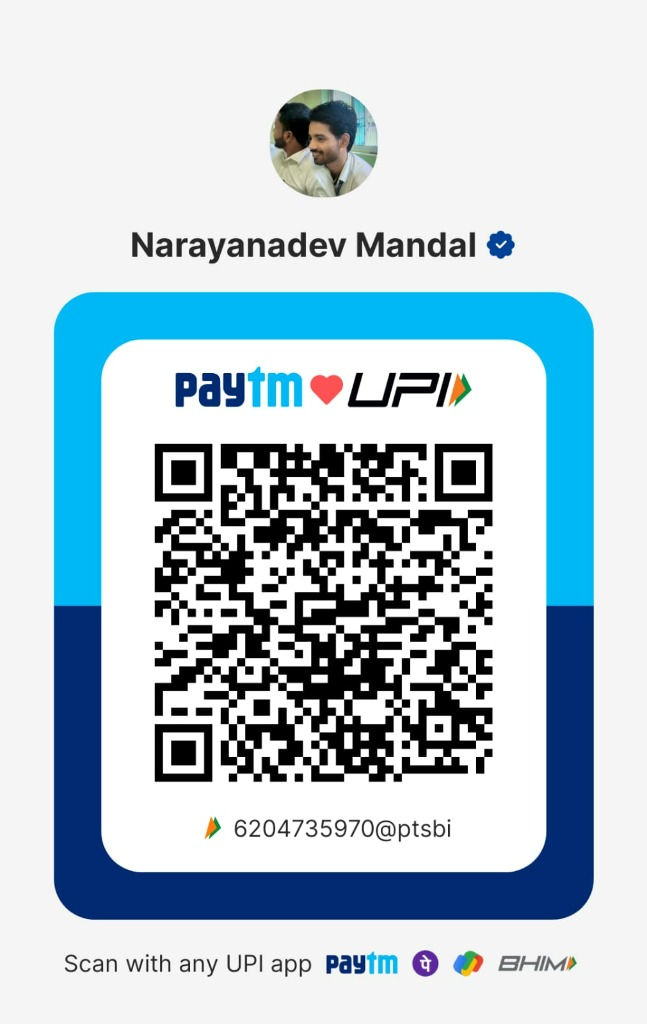
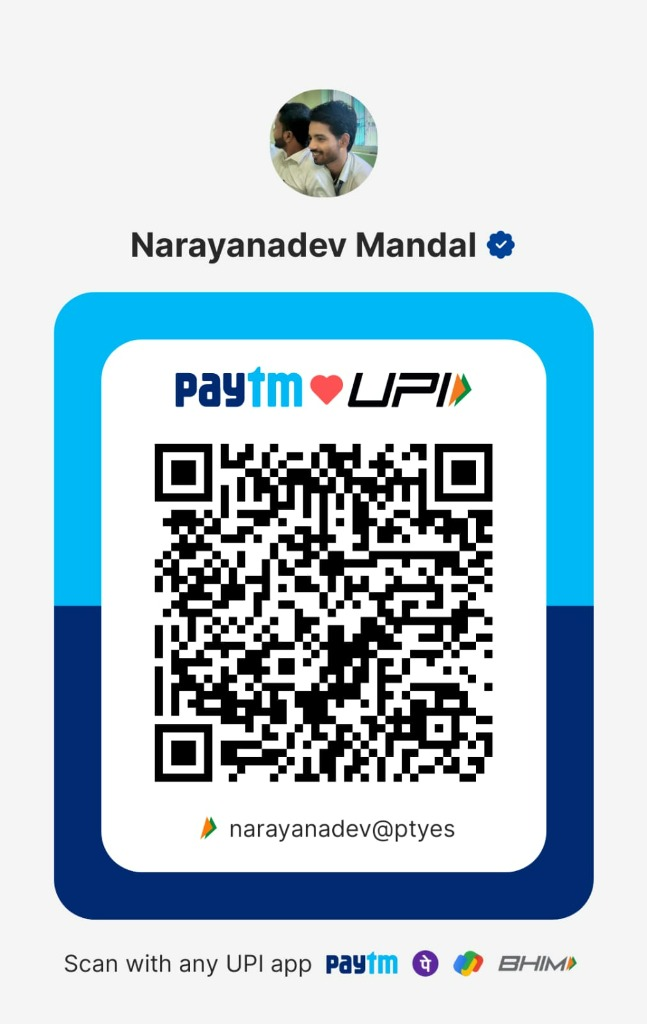
chore(donate): update UPI QR code image and ID to narayanadev@ptyes

Changed region(s): [[0.2164, 0.4062, 0.7728, 0.8438]]

diff --git a/web/index.html b/web/index.html
@@ -29,12 +29,12 @@
   <link rel="apple-touch-icon" href="assets/logo.svg">
 
   <!-- Stylesheets -->
-  <link rel="stylesheet" href="css/00-tokens.css?v=3.7.0">
-  <link rel="stylesheet" href="css/01-layout.css?v=3.7.0">
-  <link rel="stylesheet" href="css/02-components.css?v=3.7.0">
-  <link rel="stylesheet" href="css/03-motion.css?v=3.7.0">
-  <link rel="stylesheet" href="css/04-canvas.css?v=3.7.0">
-  <link rel="stylesheet" href="css/05-warm-theme.css?v=3.7.0">
+  <link rel="stylesheet" href="css/00-tokens.css?v=3.4.0">
+  <link rel="stylesheet" href="css/01-layout.css?v=3.4.0">
+  <link rel="stylesheet" href="css/02-components.css?v=3.4.0">
+  <link rel="stylesheet" href="css/03-motion.css?v=3.4.0">
+  <link rel="stylesheet" href="css/04-canvas.css?v=3.4.0">
+  <link rel="stylesheet" href="css/05-warm-theme.css?v=3.4.0">
 
   <!-- Schema.org JSON-LD Structured Data -->
   <script type="application/ld+json">
@@ -55,7 +55,7 @@
       "name": "Narayan Dev"
     },
     "downloadUrl": "https://github.com/Narayan6204/Epic-pen-clone-windows-11-optimised/releases/latest",
-    "softwareVersion": "2.4.0",
+    "softwareVersion": "2.0.0",
     "license": "https://opensource.org/licenses/MIT"
   }
   </script>
@@ -120,7 +120,7 @@
           <div class="m3-flex-col m3-align-center" style="text-align: center; max-width: 900px; margin: 0 auto 36px;">
             <div class="m3-badge-pill" style="margin-bottom: 16px;">
               <span class="material-symbols-rounded" style="font-size: 16px;">bolt</span>
-              <span>Windows 11 Direct3D 11 Accelerated • <span data-gh-version>v2.4.0</span></span>
+              <span>Direct3D 11 GPU Pipeline • 60 FPS Fluid Animations • <span data-gh-version>v2.0.0</span></span>
             </div>
 
             <h1 id="hero-title" class="m3-display-medium" style="margin-bottom: 16px; font-weight: 800;">
@@ -128,13 +128,13 @@
             </h1>
 
             <p class="m3-body-large" style="max-width: 720px; margin-bottom: 28px;">
-              Hardware-accelerated ink, Smart Vector Objects with OBB rotation, Circle-to-Select lasso mechanics, and near 0% idle CPU usage. Completely free and open-source.
+              Hardware-accelerated Direct3D 11 inking, 60 FPS fluid animation engine, Smart Vector Objects with OBB rotation, persistent settings storage, and near 0% idle CPU usage. Completely free and open-source.
             </p>
 
             <div class="m3-flex-row m3-gap-md" style="flex-wrap: wrap; justify-content: center;">
               <a href="https://github.com/Narayan6204/Epic-pen-clone-windows-11-optimised/releases/latest" data-gh-download-url class="m3-btn m3-btn-filled" style="height: 48px; padding: 0 32px; font-size: 1rem;">
                 <span class="material-symbols-rounded">download</span>
-                <span>Download Pen 11 Free (<span data-gh-size>18.5 MB</span>)</span>
+                <span>Download Pen 11 Free (<span data-gh-size>38.6 MB</span>)</span>
               </a>
               <a href="#features" class="m3-btn m3-btn-outlined" style="height: 48px; padding: 0 24px; font-size: 1rem;">
                 <span class="material-symbols-rounded">explore</span>
@@ -205,22 +205,22 @@
                   <div class="shape-flyout-title">Shapes</div>
                   <div class="shape-flyout-grid">
                     <button class="toolbar-tool-btn" data-shape="line" title="Line (Shift for 45°)" aria-label="Line shape">
-                      <span>📏</span>
+                      <svg width="22" height="22" viewBox="0 0 24 24" fill="none" stroke="#333333" stroke-width="2.2" stroke-linecap="round" stroke-linejoin="round"><line x1="5" y1="19" x2="19" y2="5"></line></svg>
                     </button>
                     <button class="toolbar-tool-btn" data-shape="arrow" title="Arrow (Shift for 45°)" aria-label="Arrow shape">
-                      <span>↗</span>
+                      <svg width="22" height="22" viewBox="0 0 24 24" fill="none" stroke="#333333" stroke-width="2.2" stroke-linecap="round" stroke-linejoin="round"><line x1="5" y1="19" x2="19" y2="5"></line><polyline points="10 5 19 5 19 14"></polyline></svg>
                     </button>
                     <button class="toolbar-tool-btn" data-shape="rectangle" title="Rectangle (Shift for 1:1 Square)" aria-label="Rectangle shape">
-                      <span>⬛</span>
+                      <svg width="22" height="22" viewBox="0 0 24 24" fill="none" stroke="#333333" stroke-width="2.2" stroke-linecap="round" stroke-linejoin="round"><rect x="4" y="6" width="16" height="12" rx="0"></rect></svg>
                     </button>
                     <button class="toolbar-tool-btn" data-shape="rounded_rectangle" title="Rounded Rectangle (Shift for 1:1 Square)" aria-label="Rounded rectangle shape">
-                      <span>🟩</span>
+                      <svg width="22" height="22" viewBox="0 0 24 24" fill="none" stroke="#333333" stroke-width="2.2" stroke-linecap="round" stroke-linejoin="round"><rect x="4" y="6" width="16" height="12" rx="3.5"></rect></svg>
                     </button>
                     <button class="toolbar-tool-btn" data-shape="circle" title="Circle (Shift for 1:1 Circle)" aria-label="Circle shape">
-                      <span>🟡</span>
+                      <svg width="22" height="22" viewBox="0 0 24 24" fill="none" stroke="#333333" stroke-width="2.2" stroke-linecap="round" stroke-linejoin="round"><circle cx="12" cy="12" r="8"></circle></svg>
                     </button>
                     <button class="toolbar-tool-btn" data-shape="triangle" title="Triangle (Shift for 90° Right Angle)" aria-label="Triangle shape">
-                      <span>🔺</span>
+                      <svg width="22" height="22" viewBox="0 0 24 24" fill="none" stroke="#333333" stroke-width="2.2" stroke-linecap="round" stroke-linejoin="round"><path d="M12 4 L21 19 L3 19 Z"></path></svg>
                     </button>
                   </div>
                 </div>
@@ -346,22 +346,22 @@
           <!-- Bento Grid Container -->
           <div class="bento-grid">
             
-            <!-- Bento Item 1: Direct3D 11 Hardware Acceleration -->
+            <!-- Bento Item 1: 60 FPS Fluid Animation Suite -->
             <article class="bento-card bento-col-8">
               <div class="bento-card-header">
                 <div class="bento-card-icon">
-                  <span class="material-symbols-rounded">speed</span>
+                  <span class="material-symbols-rounded">animation</span>
                 </div>
-                <span class="m3-badge-pill">Direct3D 11</span>
+                <span class="m3-badge-pill">60 FPS Fluid Suite</span>
               </div>
-              <h3 class="bento-card-title">Hardware-Accelerated Inking</h3>
+              <h3 class="bento-card-title">60 FPS Fluid Animation Engine</h3>
               <p class="bento-card-description">
-                Direct3D 11 native swapchain pipeline eliminates raster lag and cursor ghosting, delivering butter-smooth 60/120Hz high-DPI rendering without tearing.
+                Direct3D 11 native swapchain combined with <code>QPropertyAnimation</code> (<code>InOutCubic</code> 240ms) delivers seamless toolbar collapse/expand morphing and non-blocking <code>InOutSine</code> opacity fades with zero visual stutter or layout fighting.
               </p>
               <div style="background: var(--md-sys-color-surface); border-radius: var(--md-sys-shape-corner-medium); padding: 16px; border: 1px solid var(--md-sys-color-outline-variant);">
                 <div class="m3-flex-row m3-justify-between m3-align-center" style="margin-bottom: 8px;">
-                  <span class="m3-label-medium">Frame Render Time</span>
-                  <span class="m3-label-small" style="color: #22c55e; font-weight: 700;">&lt; 1.2ms (Zero Jitter)</span>
+                  <span class="m3-label-medium">Frame Dispatch & Jitter</span>
+                  <span class="m3-label-small" style="color: #22c55e; font-weight: 700;">&lt; 1.2ms (Zero Tearing)</span>
                 </div>
                 <div style="width: 100%; height: 8px; background-color: var(--md-sys-color-surface-container-highest); border-radius: 99px; overflow: hidden;">
                   <div style="width: 12%; height: 100%; background-color: var(--md-sys-color-primary); border-radius: 99px;"></div>
@@ -369,21 +369,35 @@
               </div>
             </article>
 
-            <!-- Bento Item 2: Zero-Footprint GC Idle -->
+            <!-- Bento Item 2: Modular Floating Panels & Drag Sync -->
             <article class="bento-card bento-col-4">
               <div class="bento-card-header">
                 <div class="bento-card-icon">
-                  <span class="material-symbols-rounded">energy_savings_leaf</span>
+                  <span class="material-symbols-rounded">dashboard_customize</span>
                 </div>
-                <span class="m3-badge-pill">0.0% CPU</span>
+                <span class="m3-badge-pill">Modular UI</span>
               </div>
-              <h3 class="bento-card-title">Zero-Footprint Idle</h3>
+              <h3 class="bento-card-title">Independent Floating Panels</h3>
               <p class="bento-card-description">
-                Custom Python garbage collection tuning and event loop pausing keep background CPU usage at true 0% when you aren't drawing.
+                Color Palette, Shapes Menu, and Cursor Toolbars function as modular floating panels. Attached panels glide seamlessly during drag, and remember customized screen coordinates independently.
               </p>
             </article>
 
-            <!-- Bento Item 3: Smart Vector Objects & OBB Rotation -->
+            <!-- Bento Item 3: Zero-Latency Native Hover & Cursor Engine -->
+            <article class="bento-card bento-col-4">
+              <div class="bento-card-header">
+                <div class="bento-card-icon">
+                  <span class="material-symbols-rounded">mouse</span>
+                </div>
+                <span class="m3-badge-pill">Zero Focus Steal</span>
+              </div>
+              <h3 class="bento-card-title">Zero-Latency Hover Engine</h3>
+              <p class="bento-card-description">
+                Procedural high-DPI tool cursors and instant button tooltips update at 120Hz without stealing OS window focus from Word, web browsers, or presentation slide decks.
+              </p>
+            </article>
+
+            <!-- Bento Item 4: Smart Vector Objects & OBB Rotation -->
             <article class="bento-card bento-col-4">
               <div class="bento-card-header">
                 <div class="bento-card-icon">
@@ -391,55 +405,42 @@
                 </div>
                 <span class="m3-badge-pill">OBB Matrix</span>
               </div>
-              <h3 class="bento-card-title">Smart Objects & Rotation</h3>
+              <h3 class="bento-card-title">Smart Vector Objects & OBB</h3>
               <p class="bento-card-description">
-                Drawn strokes aren't static bitmap pixels. They are vector objects that can be rotated around their true centroid, scaled, and translated seamlessly.
+                Pure vector strokes track their Oriented Bounding Box geometry during centroid rotation, scaling, and dragging. Hold for 400ms to auto-snap strokes into perfect geometric shapes.
               </p>
             </article>
 
-            <!-- Bento Item 4: Lasso Multi-Selection -->
+            <!-- Bento Item 5: Persistent State & Single-Instance Guard -->
             <article class="bento-card bento-col-4">
               <div class="bento-card-header">
                 <div class="bento-card-icon">
-                  <span class="material-symbols-rounded">gesture</span>
+                  <span class="material-symbols-rounded">save</span>
                 </div>
-                <span class="m3-badge-pill">Circle to Select</span>
+                <span class="m3-badge-pill">IPC & Storage</span>
               </div>
-              <h3 class="bento-card-title">Lasso Multi-Selection</h3>
+              <h3 class="bento-card-title">Persistent State & IPC Guard</h3>
               <p class="bento-card-description">
-                Draw a quick freehand lasso circle to group hundreds of strokes instantly. Apply bulk transformations or delete with a single tap.
+                StorageManager auto-saves custom tool sizes, active swatches, and coordinates to disk. Local IPC socket locks ensure a single instance runs with zero hotkey conflicts.
               </p>
             </article>
 
-            <!-- Bento Item 5: Single-Instance Guard & Storage -->
-            <article class="bento-card bento-col-4">
-              <div class="bento-card-header">
-                <div class="bento-card-icon">
-                  <span class="material-symbols-rounded">lock</span>
-                </div>
-                <span class="m3-badge-pill">IPC Guard</span>
-              </div>
-              <h3 class="bento-card-title">Single-Instance Guard</h3>
-              <p class="bento-card-description">
-                Inter-Process Communication (IPC) prevents accidental multiple instances, saving RAM and eliminating shortcut conflicts.
-              </p>
-            </article>
-
-            <!-- Bento Item 6: 5,000-Step OOM Shield Undo -->
+            <!-- Bento Item 6: 50,000-Stroke Memory-Safe Undo Stack -->
             <article class="bento-card bento-col-12">
               <div class="m3-flex-row m3-justify-between m3-align-center" style="flex-wrap: wrap; gap: 16px;">
                 <div style="max-width: 680px;">
                   <div class="m3-flex-row m3-gap-sm m3-align-center" style="margin-bottom: 8px;">
                     <span class="material-symbols-rounded" style="color: var(--md-sys-color-primary);">shield</span>
-                    <h3 class="bento-card-title" style="margin: 0;">5,000-Step Memory-Safe Undo Stack</h3>
+                    <h3 class="bento-card-title" style="margin: 0;">50,000-Stroke Vector Pipeline & 5,000-Step Undo Stack</h3>
                   </div>
                   <p class="bento-card-description" style="margin: 0;">
-                    Draw infinitely with confidence. Pen 11 handles up to 50,000 simultaneous strokes on screen with an optimized 5,000-step memory-capped Undo history without Out-of-Memory crashes.
+                    Draw infinitely with confidence. Pen 11 handles up to 50,000 simultaneous on-screen strokes with a massive 5,000-step memory-capped Undo history, zero raster degradation, and 0.0% background idle CPU usage.
                   </p>
                 </div>
                 <div class="m3-flex-row m3-gap-sm">
                   <span class="m3-badge-pill" style="font-size: 14px; padding: 6px 16px;">50,000+ Strokes</span>
                   <span class="m3-badge-pill" style="font-size: 14px; padding: 6px 16px;">5,000 Undo Steps</span>
+                  <span class="m3-badge-pill" style="font-size: 14px; padding: 6px 16px;">0.0% Idle CPU</span>
                 </div>
               </div>
             </article>
@@ -485,7 +486,7 @@
 
             <div class="bento-card bento-col-3">
               <span class="m3-title-small" style="">BINARY SIZE</span>
-              <div class="m3-display-small" style="color: var(--md-sys-color-primary); margin: 8px 0 4px;" data-gh-size>18.5 MB</div>
+              <div class="m3-display-small" style="color: var(--md-sys-color-primary); margin: 8px 0 4px;" data-gh-size>38.6 MB</div>
               <p class="m3-body-small" style="">Standalone portable executable. Zero install.</p>
             </div>
 
@@ -586,7 +587,7 @@ pip install -r requirements.txt
 python main.py
 
 <span style="color: #60cdff;"># 4. Compile optimized standalone executable</span>
-python -m PyInstaller main.spec</code></pre>
+python -m PyInstaller main.spec --noconfirm</code></pre>
             </div>
 
             <!-- Architecture Breakdown -->
@@ -597,21 +598,42 @@ python -m PyInstaller main.spec</code></pre>
                   <span class="material-symbols-rounded" style="color: var(--md-sys-color-primary);">description</span>
                   <div>
                     <strong style="color: var(--md-sys-color-on-surface);">main.py</strong>
-                    <p class="m3-body-small" style="">Frameless Direct3D overlay, toolbars, OBB math & event loop.</p>
+                    <p class="m3-body-small" style="">Frameless Direct3D overlay, 60 FPS animations & event dispatcher.</p>
                   </div>
                 </li>
                 <li class="m3-flex-row m3-gap-sm m3-align-center">
-                  <span class="material-symbols-rounded" style="color: var(--md-sys-color-primary);">memory</span>
+                  <span class="material-symbols-rounded" style="color: var(--md-sys-color-primary);">crop_rotate</span>
                   <div>
-                    <strong style="color: var(--md-sys-color-on-surface);">process_manager.py</strong>
-                    <p class="m3-body-small" style="">Inter-Process Communication single-instance guard.</p>
+                    <strong style="color: var(--md-sys-color-on-surface);">OBB Vector Engine</strong>
+                    <p class="m3-body-small" style="">Oriented Bounding Box geometry, rotation matrix & handle physics.</p>
+                  </div>
+                </li>
+                <li class="m3-flex-row m3-gap-sm m3-align-center">
+                  <span class="material-symbols-rounded" style="color: var(--md-sys-color-primary);">dashboard_customize</span>
+                  <div>
+                    <strong style="color: var(--md-sys-color-on-surface);">CustomHoverMenu</strong>
+                    <p class="m3-body-small" style="">Modular floating panels with non-blocking InOutSine opacity fades.</p>
+                  </div>
+                </li>
+                <li class="m3-flex-row m3-gap-sm m3-align-center">
+                  <span class="material-symbols-rounded" style="color: var(--md-sys-color-primary);">lock</span>
+                  <div>
+                    <strong style="color: var(--md-sys-color-on-surface);">SingleInstanceManager</strong>
+                    <p class="m3-body-small" style="">Local IPC socket mutex guard preventing duplicate instances.</p>
                   </div>
                 </li>
                 <li class="m3-flex-row m3-gap-sm m3-align-center">
                   <span class="material-symbols-rounded" style="color: var(--md-sys-color-primary);">save</span>
                   <div>
-                    <strong style="color: var(--md-sys-color-on-surface);">storage.py</strong>
-                    <p class="m3-body-small" style="">Atomic JSON persistence for toolbar positions & swatches.</p>
+                    <strong style="color: var(--md-sys-color-on-surface);">StorageManager</strong>
+                    <p class="m3-body-small" style="">Atomic JSON persistence for tool sizes, swatches & coordinates.</p>
+                  </div>
+                </li>
+                <li class="m3-flex-row m3-gap-sm m3-align-center">
+                  <span class="material-symbols-rounded" style="color: var(--md-sys-color-primary);">history</span>
+                  <div>
+                    <strong style="color: var(--md-sys-color-on-surface);">HistoryManager</strong>
+                    <p class="m3-body-small" style="">50,000-stroke vector pipeline & 5,000-step memory-safe command stack.</p>
                   </div>
                 </li>
               </ul>
@@ -651,12 +673,15 @@ python -m PyInstaller main.spec</code></pre>
                 If Pen 11 helped you in your studies or teaching, buy me a coffee by scanning with any UPI app!
               </p>
               
-              <div style="background: #ffffff; padding: 12px; border-radius: var(--md-sys-shape-corner-medium); box-shadow: var(--md-sys-elevation-level2); margin-bottom: 12px; max-width: 220px;">
-                <img src="assets/donate_qr.jpg" alt="UPI Donation QR Code" width="200" height="200" style="border-radius: 8px; display: block;">
+              <div style="background: #ffffff; padding: 12px; border-radius: var(--md-sys-shape-corner-medium); box-shadow: var(--md-sys-elevation-level2); margin-bottom: 12px; max-width: 240px; width: 100%;">
+                <img src="assets/donate_qr.jpg" alt="UPI Donation QR Code - narayanadev@ptyes" style="border-radius: 8px; display: block; width: 100%; height: auto;">
               </div>
 
-              <span class="m3-label-small" style="font-family: var(--md-sys-typescale-font-mono);">
-                Scan with GPay, PhonePe, Paytm, or BHIM
+              <span class="m3-label-small" style="font-family: var(--md-sys-typescale-font-mono); font-weight: 700; color: #7C5C35;">
+                UPI ID: narayanadev@ptyes
+              </span>
+              <span class="m3-label-small" style="font-family: var(--md-sys-typescale-font-mono); margin-top: 4px;">
+                Scan with Paytm, GPay, PhonePe, or BHIM
               </span>
             </div>
 
@@ -748,7 +773,7 @@ python -m PyInstaller main.spec</code></pre>
       { action: 'Increase Nib Size', keys: ['Ctrl', ']'], desc: 'Increments active stroke nib thickness by +2px.' },
       { action: 'Decrease Nib Size', keys: ['Ctrl', '['], desc: 'Decrements active stroke nib thickness by -2px.' },
       { action: 'Exit Application', keys: ['Ctrl', 'Q'], desc: 'Instantly closes and exits the Pen 11 application.' },
-      { action: 'Delete Selected Objects', keys: ['Delete'], desc: 'Removes all currently highlighted lasso selections from the screen.' },
+      { action: 'Delete Selected Objects', keys: ['Delete', 'Backspace'], desc: 'Removes all currently highlighted lasso selections from the screen.' },
       { action: 'Constrain Shapes & Angles', keys: ['Shift', 'Drag'], desc: 'Snaps angles to 45°, rectangle/ellipse to 1:1, triangle to 90° right angle.' }
     ];
 
@@ -770,6 +795,6 @@ python -m PyInstaller main.spec</code></pre>
   </script>
 
   <!-- Application Entry Point ES Module -->
-  <script type="module" src="js/app.js?v=3.7.0"></script>
+  <script type="module" src="js/app.js?v=3.4.0"></script>
 </body>
 </html>

diff --git a/README.md b/README.md
@@ -112,7 +112,7 @@ python main.py
 ```bash
 python -m PyInstaller main.spec --noconfirm
 ```
-*The compiled binary will be placed directly in the `dist/` directory as `main.exe` and `Pen 11.exe`.*
+*The compiled binary will be placed directly in the `dist/` directory as `Pen 11.exe`.*
 
 ---
 
@@ -120,8 +120,10 @@ python -m PyInstaller main.spec --noconfirm
 
 If you find Pen 11 helpful for your studies, teaching, or daily workflow and want to support its continued development, you can buy me a coffee by scanning the UPI QR code below!
 
+**UPI ID:** `narayanadev@ptyes`
+
 <p align="center">
-  <img src="assets/donate_qr.jpg" alt="UPI QR Code" width="280">
+  <img src="assets/donate_qr.jpg" alt="UPI QR Code - narayanadev@ptyes" width="280">
 </p>
 
 ---
